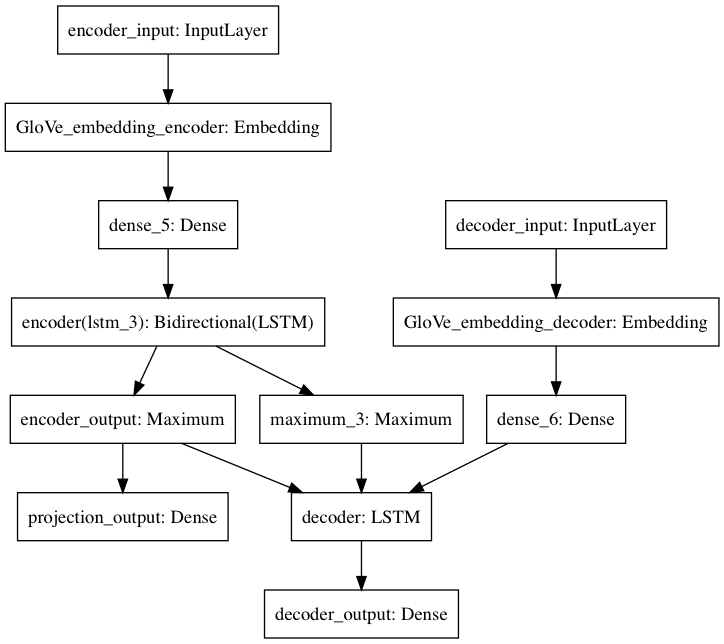
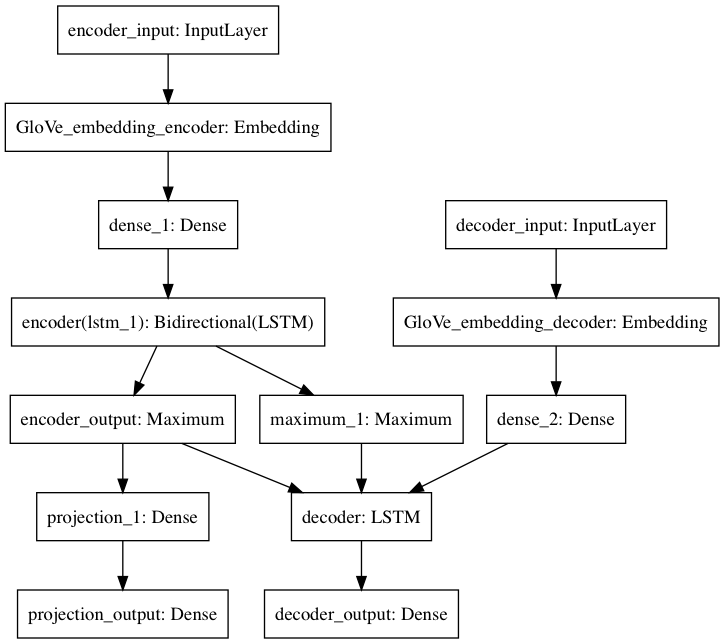
debugging encode

diff --git a/models/prototypes/baseline.py b/models/prototypes/baseline.py
@@ -63,8 +63,8 @@ class Cap2(object):
 		self.gpu_model = None
 
 	def _encoder_model(self):
-		input_layer = self.model.get_layer(name=self.encoder_input)
-		output_layer = self.model.get_layer(name=self.encoder_output)
+		input_layer = self.model.get_layer(name=self.encoder_input).input
+		output_layer = self.model.get_layer(name=self.encoder_output).output
 		model = Model(inputs=input_layer, outputs=output_layer)
 		return model
 
@@ -149,15 +149,15 @@ class Cap2Img(Cap2):
 		super().__init__(h_params, **kwds)
 		self.model_type = 'cap2img'
 
-	def _projection(self, x):
-		projection_output = Dense(self.h_params.latent_dim,activation=self.h_params.activation, name='projection_output')(x)
+	def _projection(self, x, name='projection_output'):
+		projection_output = Dense(self.h_params.latent_dim,activation=self.h_params.activation, name=name)(x)
 		return projection_output
-
 	def _build(self):
 		encoder_input, encoder_output, encoder_out_cell = self._encoder()
 		inputs = [encoder_input]
-		projection_output = self._projection(encoder_output)
-		outputs = [projection_output]
+		projection_output = self._projection(encoder_output, name='projection_1')
+		projection_output_2 = self._projection(projection_output)
+		outputs = [projection_output_2]
 		return inputs, outputs
 
 
@@ -172,10 +172,11 @@ class Cap2All(Cap2Cap, Cap2Img):
 
 	def _build(self):
 		encoder_input, encoder_output, encoder_out_cell = self._encoder()
-		projection_output = self._projection(encoder_output)
+		projection_output = self._projection(encoder_output, name='projection_1')
+		projection_output_2 = self._projection(projection_output)
 		decoder_input, decoder_output = self._decoder([encoder_output, encoder_out_cell])
 		inputs = [encoder_input, decoder_input]
-		outputs = [projection_output, decoder_output]
+		outputs = [projection_output_2, decoder_output]
 		return inputs, outputs
 
 class Vae2All(Cap2Cap, Cap2Img):
@@ -214,13 +215,14 @@ class Vae2All(Cap2Cap, Cap2Img):
 		encoder_out = Maximum(name='lstm_output')([f_state_h, b_state_h])
 		encoder_out_cell = Maximum()([f_state_c, b_state_c])
 
-		z, eps = self._variational(encoder_output)
+		z, eps = self._variational(encoder_out)
 
 		return encoder_input, encoder_out, encoder_out_cell, z, eps
 
 	def _build(self):
 		encoder_input, encoder_output, encoder_out_cell, z, eps = self._encoder()
-		projection_output = self._projection(z)
+		projection_output = self._projection(z, name='projection_1')
+		projection_output_2 = self._projection(projection_output)
 		decoder_input, decoder_output = self._decoder([z, encoder_out_cell])
 		inputs = [encoder_input, decoder_input, eps]
 		outputs = [projection_output, decoder_output]
@@ -247,5 +249,7 @@ if __name__ == '__main__':
 						latent_dim=1000)
 	cap2 = Vae2All(hparams, embeddings=embedding_matrix)
 	cap2.compile()
-	cap2.visualize()
+	encoder = cap2.get_encoder()
+	path = './models/visualization/{0}.png'.format('encoder')
+	plot_model(encoder, to_file=path)
 
